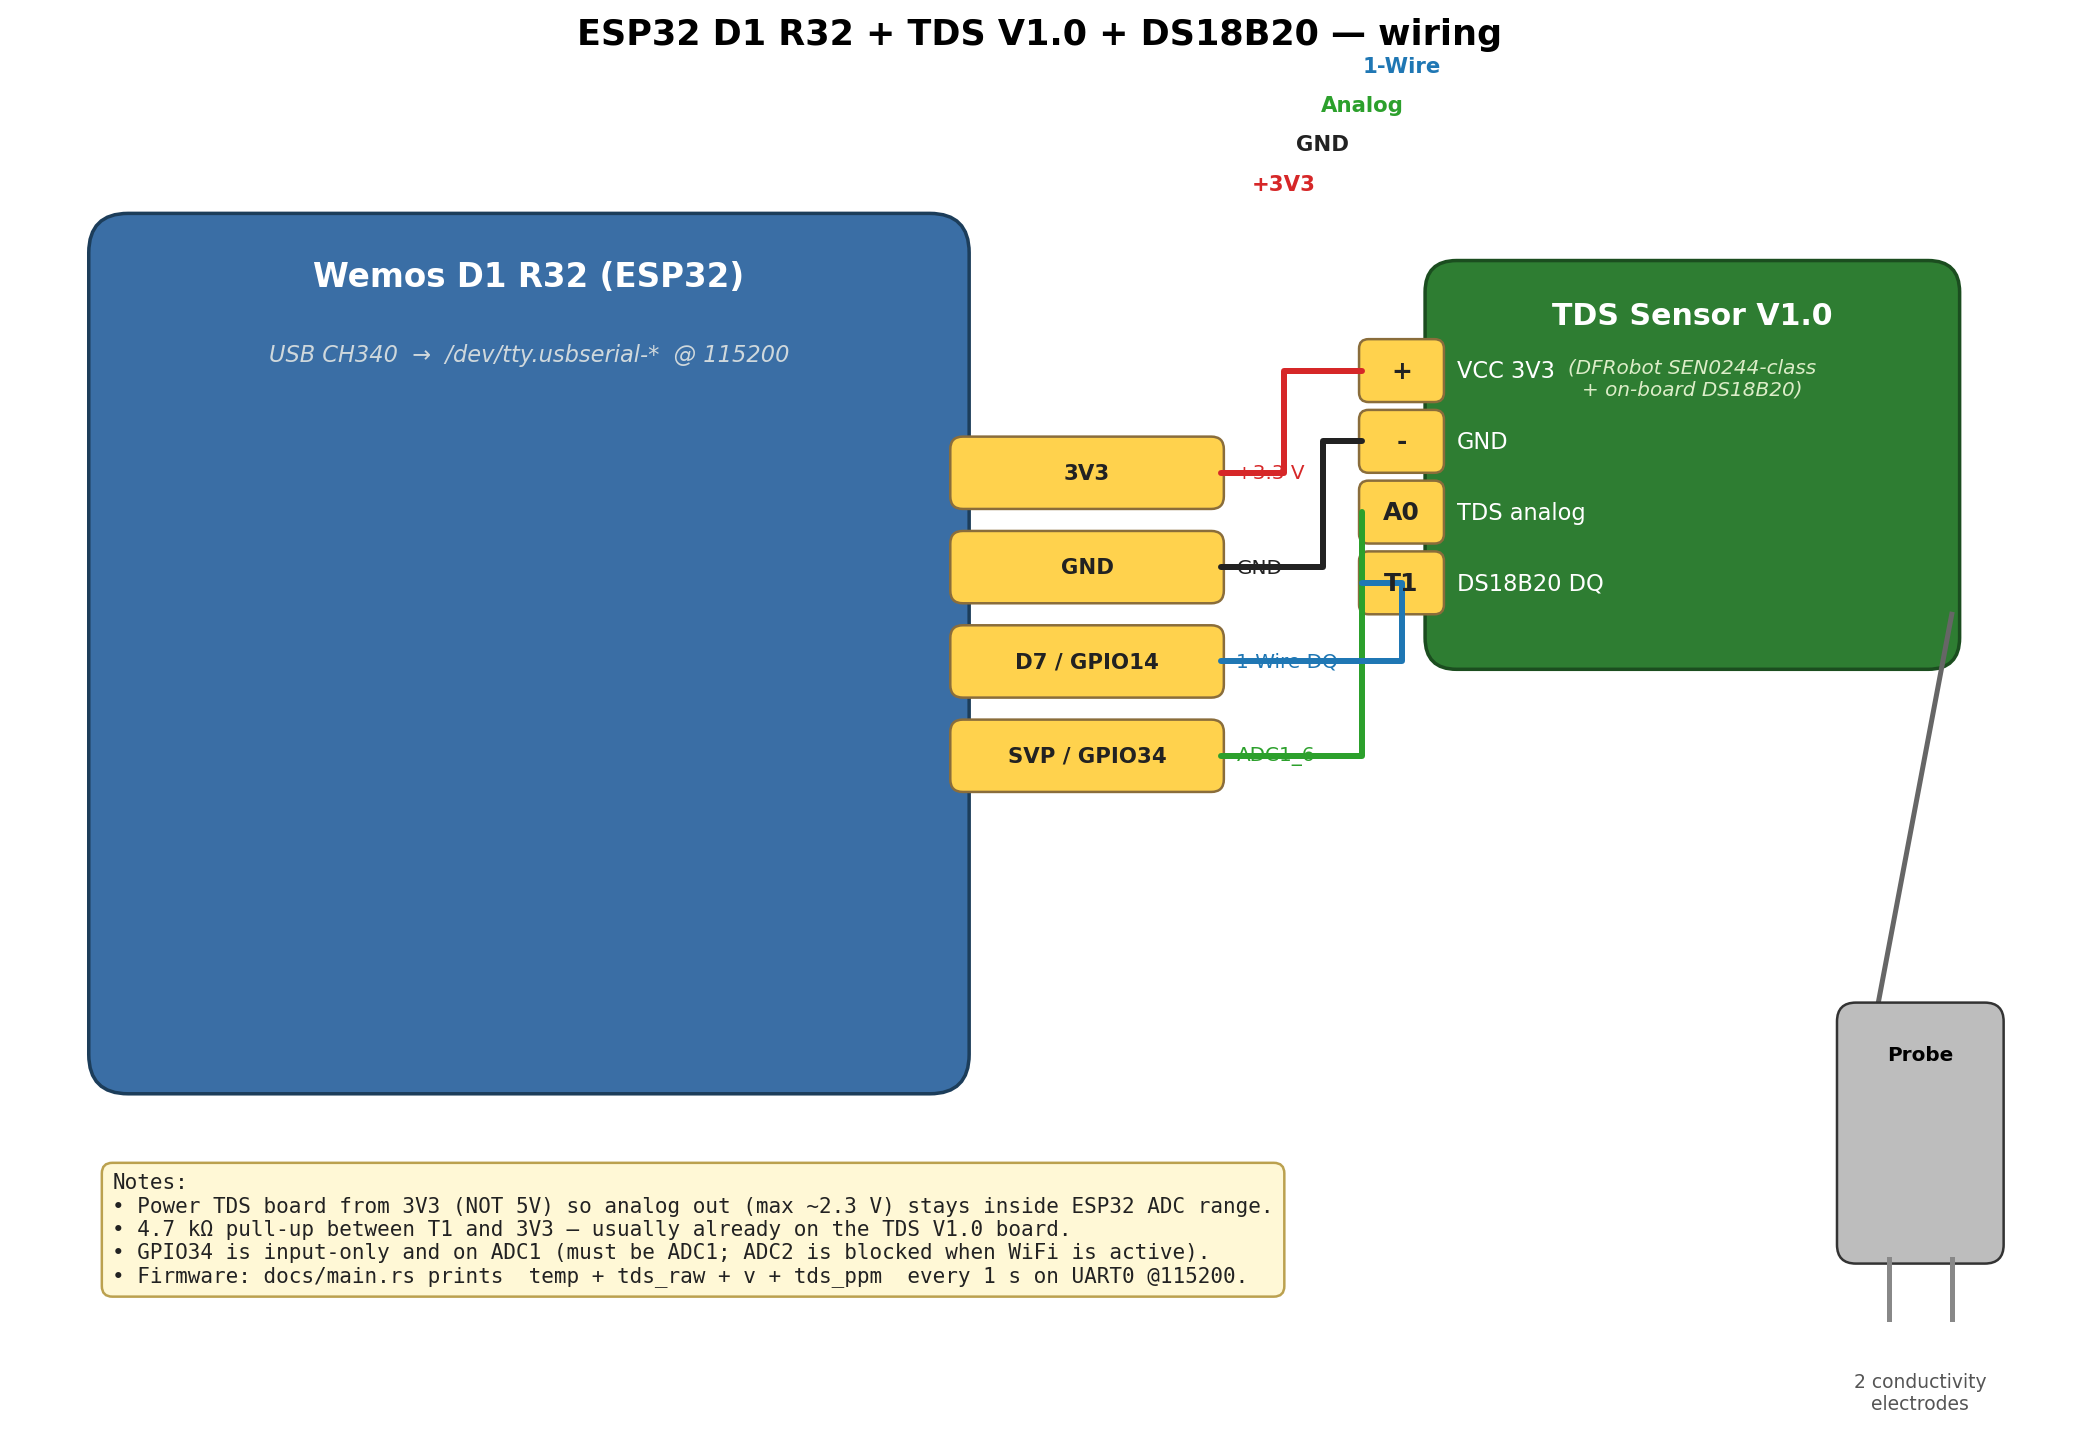
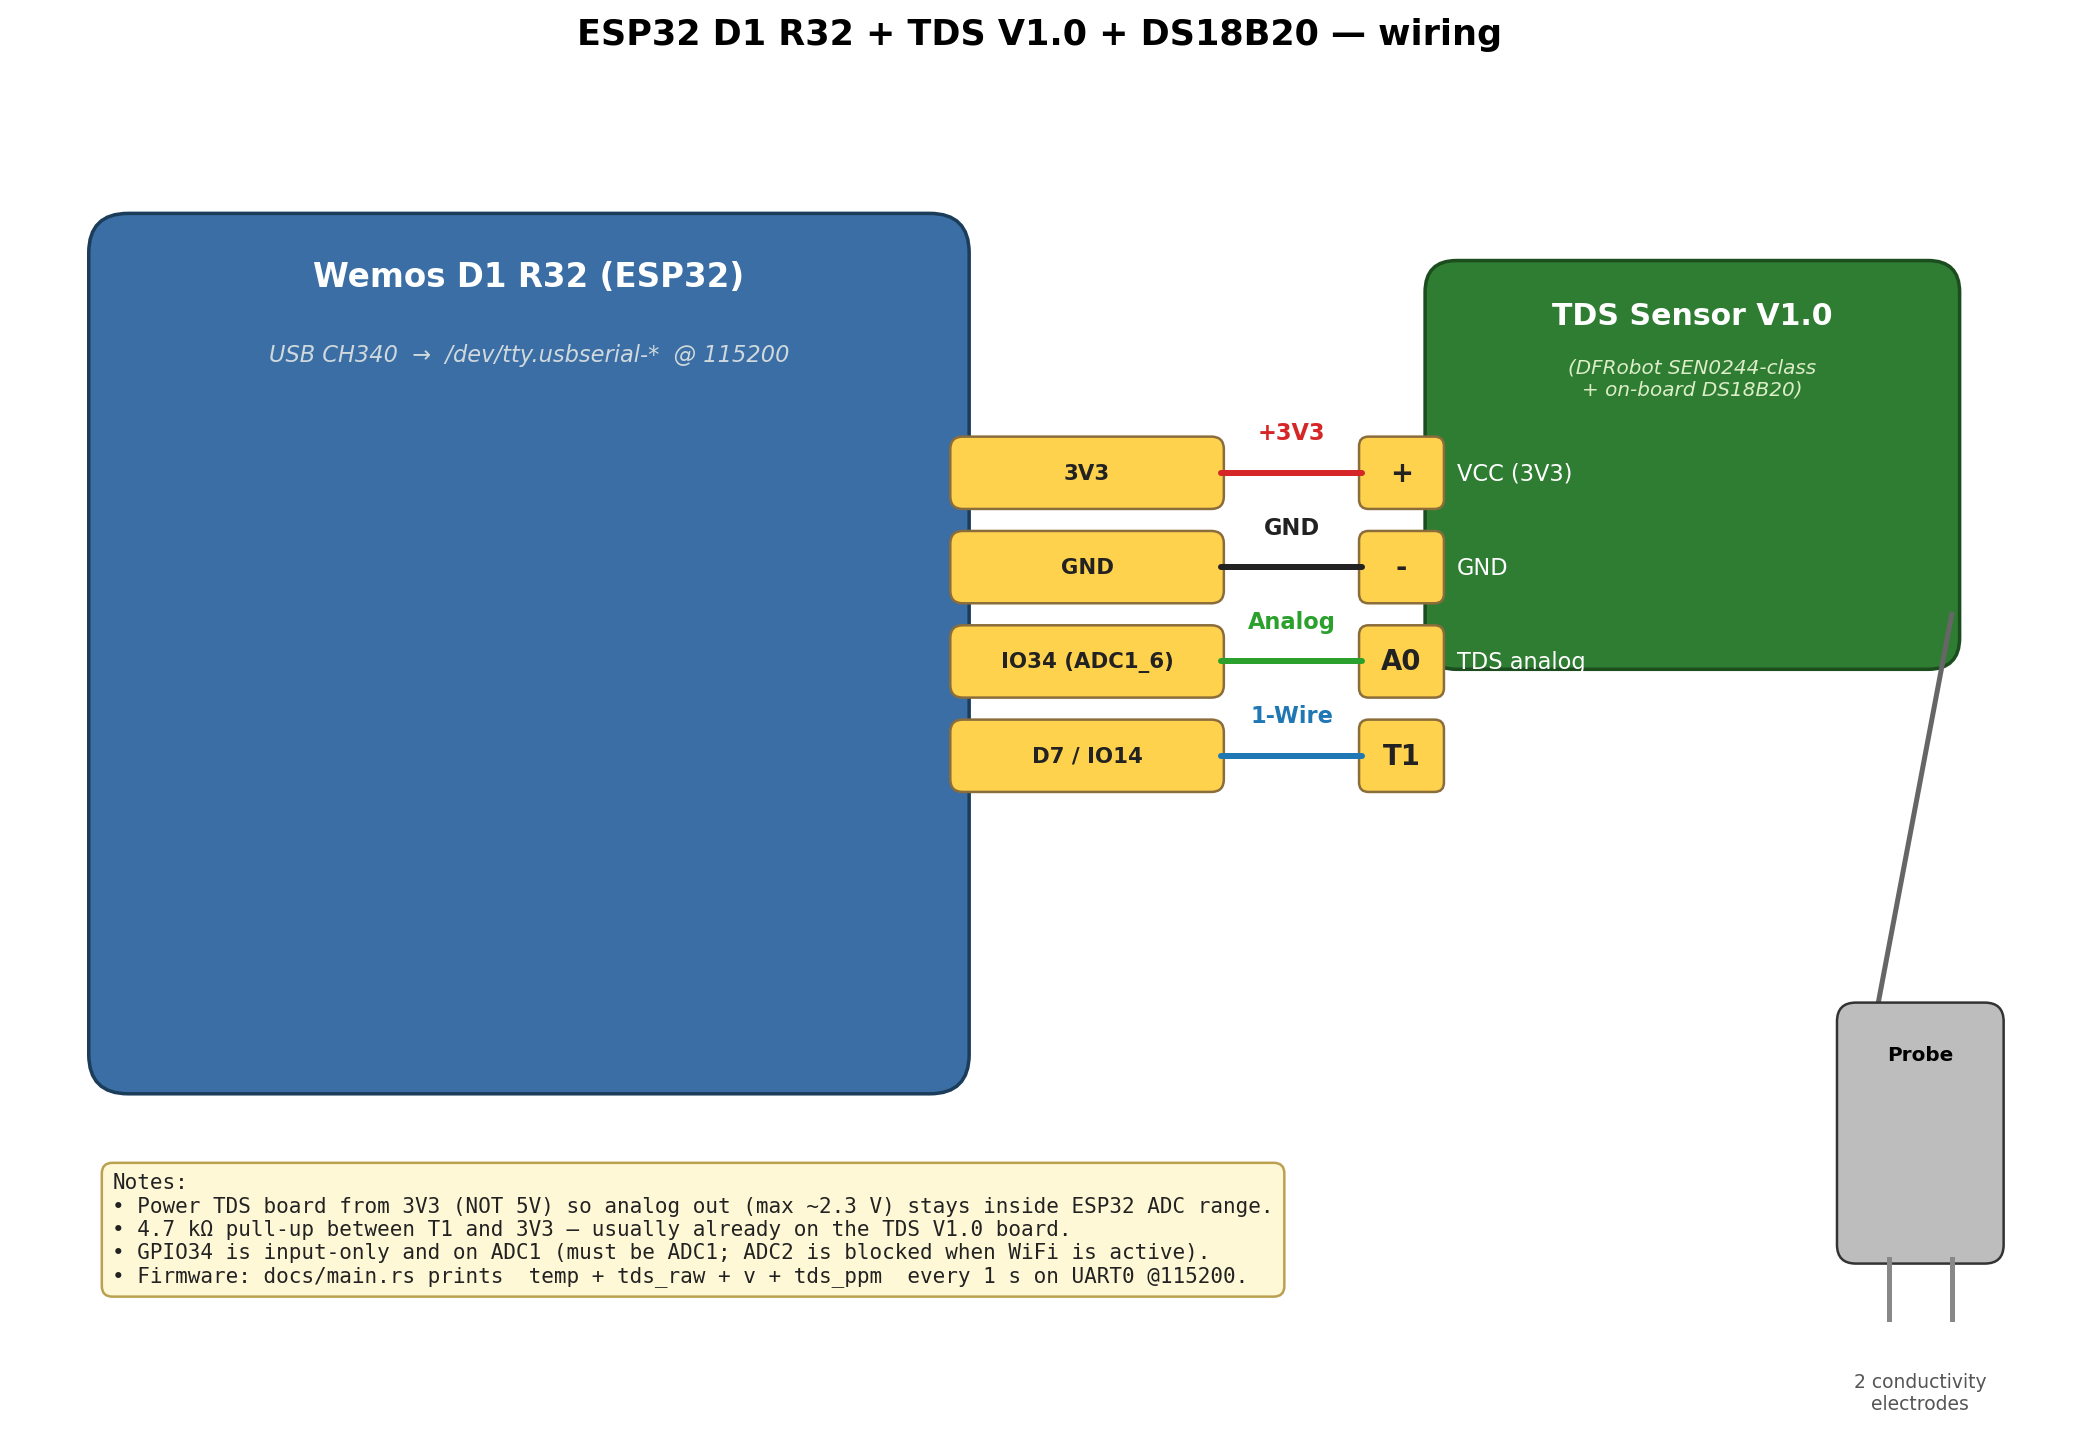
docs: fix wiring diagram - rename SVP→IO34, align pads, no wire crossings

diff --git a/docs/draw_wiring.py b/docs/draw_wiring.py
@@ -42,13 +42,15 @@ ax.text(esp_x + esp_w/2, esp_y + esp_h - 0.85,
         "USB CH340  →  /dev/tty.usbserial-*  @ 115200", color="#cfd8dc",
         ha="center", va="center", fontsize=9, fontstyle="italic")
 
-# Pin headers we'll draw on the right edge of the ESP board
+# Pin headers on the right edge of the ESP board.
+# IMPORTANT: order matches the TDS module pin order (+, -, A0, T1) so the
+# wires can run straight across without crossing.
 pins = [
-    # (label,        gpio,        color,          y_offset_from_top)
-    ("3V3",          "+3.3 V",    COL_RED,        1.6),
-    ("GND",          "GND",       COL_BLACK,      2.2),
-    ("D7 / GPIO14",  "1-Wire DQ", COL_BLUE,       2.8),
-    ("SVP / GPIO34", "ADC1_6",    COL_GREEN,      3.4),
+    # (label,         role,         color,        y_offset_from_top)
+    ("3V3",           "+3.3 V",     COL_RED,      1.6),
+    ("GND",           "GND",        COL_BLACK,    2.2),
+    ("IO34 (ADC1_6)", "TDS analog", COL_GREEN,    2.8),
+    ("D7 / IO14",     "1-Wire DQ",  COL_BLUE,     3.4),
 ]
 pin_x = esp_x + esp_w  # right edge of board
 pin_box_w, pin_box_h = 1.7, 0.42
@@ -66,8 +68,8 @@ for label, role, col, off in pins:
     ax.text(pin_x + pin_box_w/2 - 0.05, py,
             label, color=COL_BLACK, ha="center", va="center",
             fontsize=8.5, fontweight="bold")
-    ax.text(pin_x + pin_box_w + 0.05, py,
-            role, color=col, ha="left", va="center", fontsize=8)
+    # wire anchors at the right edge of the gold pad (no role text on the
+    # outer side, so the wire never crosses any text)
     esp_pin_coords[label] = (pin_x + pin_box_w - 0.05, py)
 
 # ---------- TDS V1.0 module ----------
@@ -85,18 +87,20 @@ ax.text(tds_x + tds_w/2, tds_y + tds_h - 0.7,
         "(DFRobot SEN0244-class\n+ on-board DS18B20)",
         color="#dcedc8", ha="center", va="center", fontsize=8, fontstyle="italic")
 
-# 4 pins down the LEFT edge of the TDS module
+# 4 pins down the LEFT edge of the TDS module.
+# Y positions are taken directly from the ESP pin coordinates so wires are
+# perfectly horizontal — no Manhattan bends, no crossings.
 tds_pins = [
-    # (label, role,        color,      y_within_module)
-    ("+",    "VCC 3V3",     COL_RED,    1.85),
-    ("-",    "GND",         COL_BLACK,  1.40),
-    ("A0",   "TDS analog",  COL_GREEN,  0.95),
-    ("T1",   "DS18B20 DQ",  COL_BLUE,   0.50),
+    # (label, role,         color,      esp_pin_to_align_with)
+    ("+",    "VCC (3V3)",    COL_RED,    "3V3"),
+    ("-",    "GND",          COL_BLACK,  "GND"),
+    ("A0",   "TDS analog",   COL_GREEN,  "IO34 (ADC1_6)"),
+    ("T1",   "DS18B20 DQ",   COL_BLUE,   "D7 / IO14"),
 ]
 tds_pin_coords = {}
-pin_box_w2, pin_box_h2 = 0.5, 0.36
-for label, role, col, dy in tds_pins:
-    py = tds_y + dy
+pin_box_w2, pin_box_h2 = 0.5, 0.42
+for label, role, col, align_to in tds_pins:
+    py = esp_pin_coords[align_to][1]   # same y as the ESP pad it talks to
     pad = mpatches.FancyBboxPatch(
         (tds_x - 0.45, py - pin_box_h2/2), pin_box_w2, pin_box_h2,
         boxstyle="round,pad=0.02,rounding_size=0.06",
@@ -105,7 +109,7 @@ for label, role, col, dy in tds_pins:
     ax.add_patch(pad)
     ax.text(tds_x - 0.45 + pin_box_w2/2, py,
             label, color=COL_BLACK, ha="center", va="center",
-            fontsize=10, fontweight="bold")
+            fontsize=11, fontweight="bold")
     ax.text(tds_x + 0.15, py, role, color="white",
             ha="left", va="center", fontsize=9)
     tds_pin_coords[label] = (tds_x - 0.45, py)
@@ -128,23 +132,19 @@ for ex in (probe_x + 0.3, probe_x + 0.7):
 ax.text(probe_x + 0.5, probe_y - 0.85, "2 conductivity\nelectrodes",
         ha="center", va="center", fontsize=7.5, color="#555")
 
-# ---------- wires (Manhattan-routed) ----------
-def manhattan(p1, p2, midx, color, **kw):
-    x1, y1 = p1; x2, y2 = p2
-    ax.plot([x1, midx, midx, x2], [y1, y1, y2, y2],
-            color=color, **WIRE, **kw)
+# ---------- wires (straight horizontal, no crossings) ----------
+def straight(p_esp, p_tds, color, label):
+    x1, y = p_esp; x2, _ = p_tds
+    ax.plot([x1, x2], [y, y], color=color, **WIRE)
+    # mid-wire label
+    ax.text((x1 + x2) / 2, y + 0.18, label,
+            color=color, fontsize=9, fontweight="bold",
+            ha="center", va="bottom")
 
-# vertical channels in different x to keep wires readable
-manhattan(esp_pin_coords["3V3"],         tds_pin_coords["+"],  midx=8.05, color=COL_RED)
-manhattan(esp_pin_coords["GND"],         tds_pin_coords["-"],  midx=8.30, color=COL_BLACK)
-manhattan(esp_pin_coords["SVP / GPIO34"],tds_pin_coords["A0"], midx=8.55, color=COL_GREEN)
-manhattan(esp_pin_coords["D7 / GPIO14"], tds_pin_coords["T1"], midx=8.80, color=COL_BLUE)
-
-# Channel legend at the very top of the wires
-ax.text(8.05, 7.20, "+3V3",   color=COL_RED,   fontsize=8.5, fontweight="bold", ha="center")
-ax.text(8.30, 7.45, "GND",    color=COL_BLACK, fontsize=8.5, fontweight="bold", ha="center")
-ax.text(8.55, 7.70, "Analog", color=COL_GREEN, fontsize=8.5, fontweight="bold", ha="center")
-ax.text(8.80, 7.95, "1-Wire", color=COL_BLUE,  fontsize=8.5, fontweight="bold", ha="center")
+straight(esp_pin_coords["3V3"],           tds_pin_coords["+"], COL_RED,   "+3V3")
+straight(esp_pin_coords["GND"],           tds_pin_coords["-"], COL_BLACK, "GND")
+straight(esp_pin_coords["IO34 (ADC1_6)"], tds_pin_coords["A0"], COL_GREEN, "Analog")
+straight(esp_pin_coords["D7 / IO14"],     tds_pin_coords["T1"], COL_BLUE,  "1-Wire")
 
 # ---------- legend / notes ----------
 notes = (